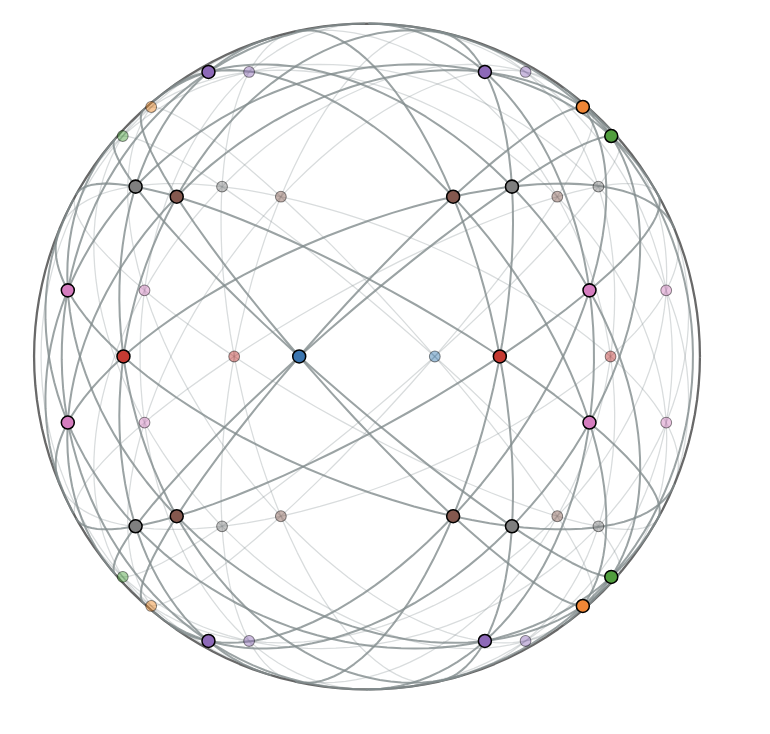
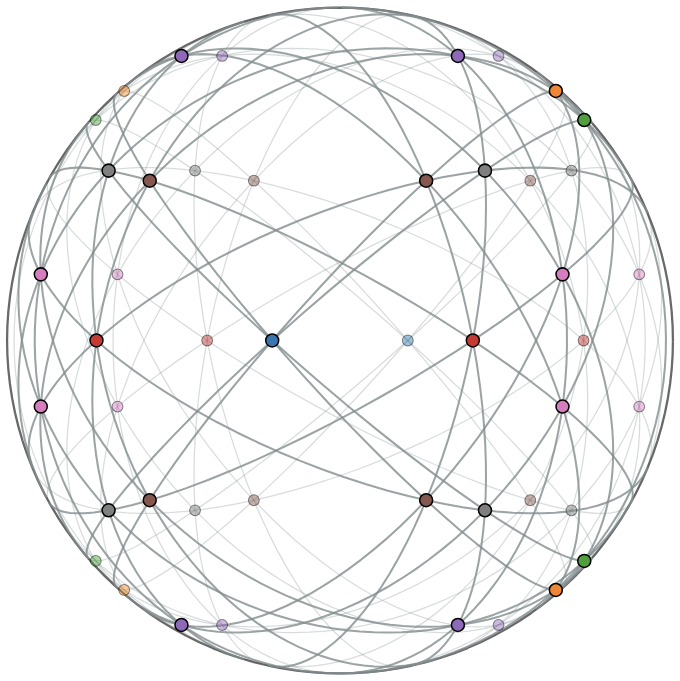
Gallery: add Othello, centre works images, rewrite captions

Changed region(s): [[0.0, 0.0, 1.0, 1.0]]

diff --git a/_sass/_redesign_layout.scss b/_sass/_redesign_layout.scss
@@ -1498,8 +1498,12 @@ details.proj-details summary:hover {
   width: 230px;
 }
 .shelf-item-work img {
-  height: 300px;
+  height: 290px;
+  object-fit: contain;
+  object-position: center;
+  padding: 10px;
   border: 1px solid var(--rule);
+  border-radius: 3px;
   background: #fff;
 }
 .shelf-item figcaption {
